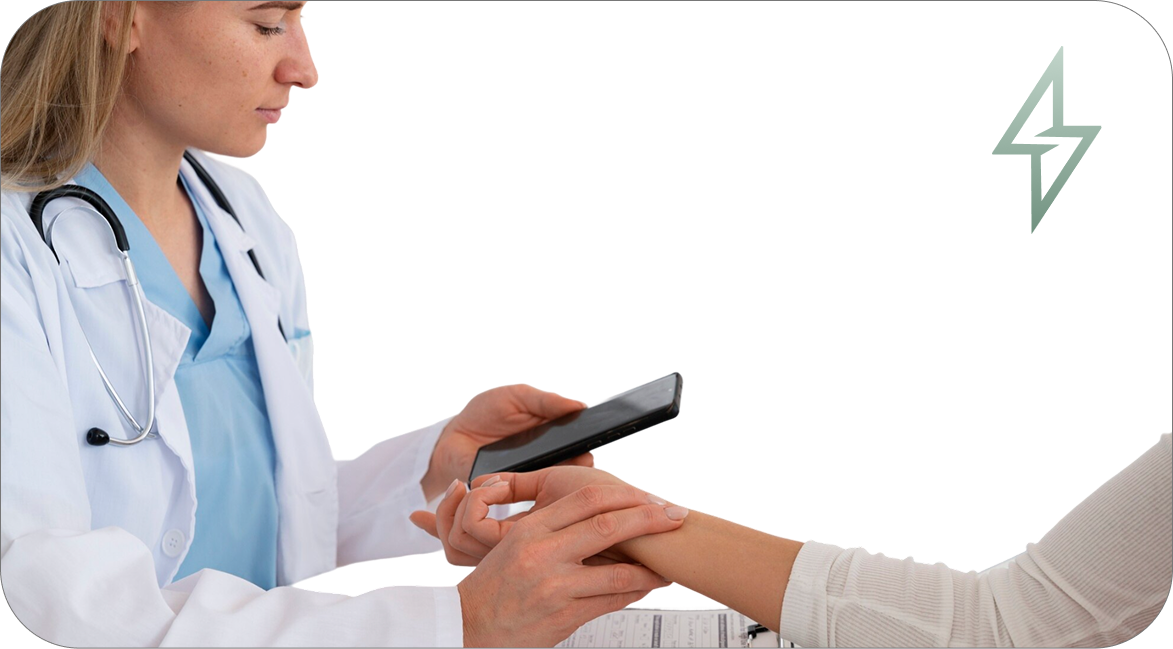
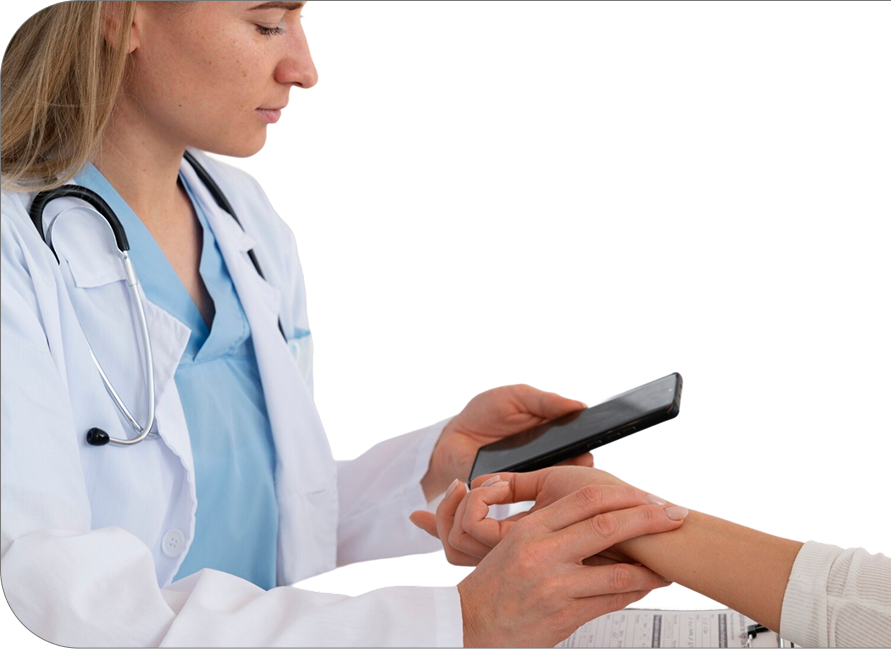
style: optimize onboarding screens layout, adjust spacing and position, remove lightning bolt and crop top image

diff --git a/src/pages/OnboardingFlow.jsx b/src/pages/OnboardingFlow.jsx
@@ -139,8 +139,7 @@ export default function OnboardingFlow() {
                 margin: '0 auto',
                 width: '100%'
             }}>
-                
-                {step === 1 && (
+                              {step === 1 && (
                     <div className="step-container fadeIn" style={{ 
                         flex: 1, 
                         display: 'flex', 
@@ -148,28 +147,28 @@ export default function OnboardingFlow() {
                         alignItems: 'center', 
                         textAlign: 'center',
                         justifyContent: 'space-between',
-                        height: '100%'
+                        minHeight: isMobile ? 'calc(100vh - 40px)' : '650px',
+                        paddingBottom: '24px'
                     }}>
-                        <div className="onboarding-logo-container" style={{ marginTop: '20px', marginBottom: '20px', width: '100%', display: 'flex', justifyContent: 'center' }}>
-                            <img src={logoSlMa} alt="SurgiLink" style={{ height: isMobile ? '70px' : '110px', objectFit: 'contain', transition: 'height 0.3s ease' }} />
+                        <div className="onboarding-logo-container" style={{ marginTop: '20px', marginBottom: '16px', width: '100%', display: 'flex', justifyContent: 'center' }}>
+                            <img src={logoSlMa} alt="SurgiLink" style={{ height: isMobile ? '65px' : '100px', objectFit: 'contain', transition: 'height 0.3s ease' }} />
                         </div>
                         <div className="onboarding-text-container" style={{ 
-                            marginBottom: 'auto', 
-                            marginTop: '10px',
+                            marginBottom: '16px', 
                             padding: '0 20px',
                             zIndex: 5
                         }}>
                             <h1 className="onboarding-title" style={{ 
-                                fontSize: '2.2rem', 
+                                fontSize: isMobile ? '1.8rem' : '2.2rem', 
                                 fontWeight: '700', 
-                                marginBottom: '12px', 
-                                lineHeight: '1.1',
+                                marginBottom: '10px', 
+                                lineHeight: '1.15',
                                 color: '#1f2937'
                             }}>
                                 Bienvenue <span style={{ fontWeight: '400' }}>dans SurgiLink !</span>
                             </h1>
                             <p className="onboarding-subtitle" style={{ 
-                                fontSize: '1.2rem', 
+                                fontSize: isMobile ? '1.05rem' : '1.2rem', 
                                 fontWeight: '500',
                                 color: '#6b7280'
                             }}>
@@ -178,39 +177,38 @@ export default function OnboardingFlow() {
                         </div>
 
                         <div className="onboarding-image-container" style={{ 
-                            position: 'relative', 
                             width: '100%', 
                             display: 'flex', 
-                            flexDirection: 'column', 
+                            justifyContent: 'center',
                             alignItems: 'center',
-                            justifyContent: 'flex-end',
-                            marginTop: 'auto',
-                            minHeight: '300px'
+                            flex: 1,
+                            margin: '10px 0'
                         }}>
                             <img 
                                 src={medecinImg} 
                                 alt="Médecin" 
                                 style={{ 
-                                    width: '100%', 
-                                    maxWidth: '420px',
+                                    width: '75%', 
+                                    maxWidth: '280px',
                                     height: 'auto', 
                                     display: 'block',
-                                    marginBottom: '-5px',
-                                    filter: 'drop-shadow(0 -10px 30px rgba(0,0,0,0.15))'
+                                    opacity: 0.85,
+                                    filter: 'drop-shadow(0 -5px 15px rgba(0,0,0,0.06))',
+                                    transition: 'all 0.3s ease'
                                 }} 
                             />
-                            
+                        </div>
+
+                        <div style={{ width: '100%', display: 'flex', justifyContent: 'center', padding: '16px 20px 0 20px', zIndex: 10 }}>
                             <button 
                                 onClick={() => setStep(2)}
                                 className="btn-primary"
                                 style={{ 
-                                    position: 'absolute',
-                                    bottom: '30%', 
-                                    width: '85%', 
+                                    width: '100%', 
                                     maxWidth: '280px',
-                                    padding: '1.2rem',
-                                    borderRadius: '50px',
-                                    fontSize: '1.2rem',
+                                    height: '52px', 
+                                    borderRadius: '30px',
+                                    fontSize: '1.1rem',
                                     fontWeight: '800',
                                     display: 'flex',
                                     alignItems: 'center',
@@ -219,135 +217,143 @@ export default function OnboardingFlow() {
                                     background: 'var(--color-purple-600)',
                                     border: 'none',
                                     color: 'white',
-                                    boxShadow: '0 15px 40px rgba(109, 140, 124, 0.4)',
-                                    zIndex: 20,
+                                    boxShadow: '0 10px 30px rgba(109, 140, 124, 0.3)',
                                     cursor: 'pointer',
                                     letterSpacing: '0.02em'
                                 }}
                             >
-                                CONTINUER <ArrowRight size={24} />
+                                CONTINUER <ArrowRight size={20} />
                             </button>
                         </div>
                     </div>
                 )}
 
                  {step === 2 && (
-                    <div className="step-container fadeIn" style={{ flex: 1, display: 'flex', flexDirection: 'column' }}>
-                        <div className="onboarding-header-card" style={{ 
-                            borderRadius: '30px', 
-                            overflow: 'hidden', 
-                            height: isMobile ? '130px' : '240px',
-                            boxShadow: '0 15px 30px rgba(0,0,0,0.15)',
-                            marginBottom: isMobile ? '12px' : 'var(--spacing-6)',
-                            transition: 'height 0.3s ease'
-                        }}>
-                            <img src={cardMedicalImg} alt="SurgiLink Medical" style={{ width: '100%', height: '100%', objectFit: 'cover' }} />
-                        </div>
-
-                        <div className="onboarding-info-container" style={{ color: '#4b5563', flex: 1 }}>
-                            <h2 style={{ 
-                                fontSize: isMobile ? '1.15rem' : '1.4rem', 
-                                fontWeight: '700', 
-                                marginBottom: isMobile ? '10px' : 'var(--spacing-4)', 
-                                display: 'flex', 
-                                alignItems: 'center', 
-                                gap: '8px', 
-                                color: '#1f2937',
-                                lineHeight: 1.25
+                    <div className="step-container fadeIn" style={{ 
+                        flex: 1, 
+                        display: 'flex', 
+                        flexDirection: 'column', 
+                        justifyContent: 'space-between',
+                        minHeight: isMobile ? 'calc(100vh - 40px)' : '650px',
+                        paddingBottom: '24px'
+                    }}>
+                        <div style={{ flex: 1, display: 'flex', flexDirection: 'column', gap: isMobile ? '16px' : '24px', width: '100%' }}>
+                            <div className="onboarding-header-card" style={{ 
+                                borderRadius: '30px', 
+                                overflow: 'hidden', 
+                                height: isMobile ? '140px' : '200px',
+                                boxShadow: '0 15px 30px rgba(0,0,0,0.15)',
+                                width: '100%'
                             }}>
-                                Tout au long de votre opération, nous restons à vos côtés !
-                            </h2>
-
-                            <div className="info-badge" style={{ 
-                                background: '#f9fafb', 
-                                padding: isMobile ? '8px 16px' : '10px 20px', 
-                                borderRadius: '15px', 
-                                display: 'flex', 
-                                alignItems: 'center', 
-                                gap: '12px',
-                                marginBottom: isMobile ? '10px' : 'var(--spacing-4)',
-                                border: '1px solid #e5e7eb',
-                                boxShadow: '0 2px 4px rgba(0,0,0,0.02)'
-                            }}>
-                                <img src={smsImg} alt="SMS" style={{ height: isMobile ? '26px' : '32px' }} />
-                                <span style={{ fontWeight: '600', color: '#374151', fontSize: isMobile ? '14px' : '16px' }}>Suivi SMS : Questionnaires</span>
+                                <img src={cardMedicalImg} alt="SurgiLink Medical" style={{ width: '100%', height: '100%', objectFit: 'cover' }} />
                             </div>
 
-                            <p style={{ fontSize: isMobile ? '0.85rem' : '0.95rem', lineHeight: '1.5', opacity: 0.9, marginBottom: isMobile ? '8px' : 'var(--spacing-6)' }}>
-                                SurgiLink est un assistant de suivi chirurgical qui va vous accompagner avant et après votre intervention.
-                            </p>
+                            <div className="onboarding-info-container" style={{ color: '#4b5563', display: 'flex', flexDirection: 'column', gap: isMobile ? '12px' : '16px' }}>
+                                <h2 style={{ 
+                                    fontSize: isMobile ? '1.25rem' : '1.4rem', 
+                                    fontWeight: '700', 
+                                    color: '#1f2937',
+                                    lineHeight: 1.25,
+                                    margin: 0
+                                }}>
+                                    Tout au long de votre opération, nous restons à vos côtés !
+                                </h2>
 
-                            <p style={{ fontSize: isMobile ? '0.85rem' : '0.95rem', lineHeight: '1.5', opacity: 0.9, marginBottom: isMobile ? '8px' : 'var(--spacing-6)' }}>
-                                💬 Vous recevrez des SMS à chaque étape clé <strong>(J-7, J-2, etc.)</strong>, afin de vous accompagner sereinement.
-                            </p>
+                                <div className="info-badge" style={{ 
+                                    background: '#f9fafb', 
+                                    padding: '8px 16px', 
+                                    borderRadius: '15px', 
+                                    display: 'flex', 
+                                    alignItems: 'center', 
+                                    gap: '12px',
+                                    border: '1px solid #e5e7eb',
+                                    boxShadow: '0 2px 4px rgba(0,0,0,0.02)',
+                                    alignSelf: 'flex-start'
+                                }}>
+                                    <img src={smsImg} alt="SMS" style={{ height: '26px' }} />
+                                    <span style={{ fontWeight: '600', color: '#374151', fontSize: '14px' }}>Suivi SMS : Questionnaires</span>
+                                </div>
 
-                            <p style={{ fontSize: isMobile ? '0.85rem' : '0.95rem', lineHeight: '1.5', opacity: 0.9, marginBottom: isMobile ? '8px' : 'var(--spacing-6)' }}>
-                                ⚠ Il est essentiel de bien les consulter et de <strong>répondre au questionnaire via le lien qui vous sera envoyé dans le message</strong> : Cela ne vous prendra que quelques petites secondes !
-                            </p>
+                                <div style={{ display: 'flex', flexDirection: 'column', gap: '10px' }}>
+                                    <p style={{ fontSize: '0.9rem', lineHeight: '1.5', opacity: 0.9, margin: 0 }}>
+                                        SurgiLink est un assistant de suivi chirurgical qui va vous accompagner avant et après votre intervention.
+                                    </p>
 
-                            <p style={{ fontSize: isMobile ? '0.85rem' : '0.95rem', lineHeight: '1.5', opacity: 0.9, marginBottom: isMobile ? '12px' : 'var(--spacing-8)' }}>
-                                Avec nous, vous êtes accompagné(e) <strong>avec clarté et sérénité tout au long de votre parcours de soins !</strong>
-                            </p>
+                                    <p style={{ fontSize: '0.9rem', lineHeight: '1.5', opacity: 0.9, margin: 0 }}>
+                                        💬 Vous recevrez des SMS à chaque étape clé <strong>(J-7, J-2, etc.)</strong>, afin de vous accompagner sereinement.
+                                    </p>
 
-                            <div className="timeline-container" style={{ position: 'relative', marginBottom: isMobile ? '16px' : 'var(--spacing-10)' }}>
-                                <div className="timeline-line" style={{ 
-                                    position: 'absolute', 
-                                    top: isMobile ? '18px' : '30px', 
-                                    left: '0', 
-                                    right: '0', 
-                                    height: '2px', 
-                                    background: '#e5e7eb',
-                                    zIndex: 0
-                                }} />
-                                <div className="timeline-items" style={{ display: 'flex', justifyContent: 'space-between', position: 'relative', zIndex: 1, padding: '0 5px' }}>
-                                    {['J-7', 'J-2', 'J-1', 'J-J', 'J+1', 'J+2', 'J+7'].map((day) => (
-                                        <div key={day} style={{ display: 'flex', flexDirection: 'column', alignItems: 'center', gap: isMobile ? '4px' : '8px' }}>
-                                            <div style={{ 
-                                                width: isMobile ? '14px' : '24px', 
-                                                height: isMobile ? '14px' : '24px', 
-                                                borderRadius: '50%', 
-                                                background: '#ffffff',
-                                                border: '2px solid #e5e7eb'
-                                            }} />
-                                            <span style={{ fontSize: isMobile ? '0.65rem' : '0.75rem', fontWeight: '600', color: '#6b7280' }}>{day}</span>
-                                        </div>
-                                    ))}
+                                    <p style={{ fontSize: '0.9rem', lineHeight: '1.5', opacity: 0.9, margin: 0 }}>
+                                        ⚠ Il est essentiel de bien les consulter et de <strong>répondre au questionnaire via le lien qui vous sera envoyé dans le message</strong> : Cela ne vous prendra que quelques petites secondes !
+                                    </p>
+
+                                    <p style={{ fontSize: '0.9rem', lineHeight: '1.5', opacity: 0.9, margin: 0 }}>
+                                        Avec nous, vous êtes accompagné(e) <strong>avec clarté et sérénité tout au long de votre parcours de soins !</strong>
+                                    </p>
+                                </div>
+
+                                <div className="timeline-container" style={{ position: 'relative', marginTop: '8px' }}>
+                                    <div className="timeline-line" style={{ 
+                                        position: 'absolute', 
+                                        top: isMobile ? '16px' : '22px', 
+                                        left: '0', 
+                                        right: '0', 
+                                        height: '2px', 
+                                        background: '#e5e7eb',
+                                        zIndex: 0
+                                    }} />
+                                    <div className="timeline-items" style={{ display: 'flex', justifyContent: 'space-between', position: 'relative', zIndex: 1, padding: '0 5px' }}>
+                                        {['J-7', 'J-2', 'J-1', 'J-J', 'J+1', 'J+2', 'J+7'].map((day) => (
+                                            <div key={day} style={{ display: 'flex', flexDirection: 'column', alignItems: 'center', gap: '4px' }}>
+                                                <div style={{ 
+                                                    width: isMobile ? '12px' : '18px', 
+                                                    height: isMobile ? '12px' : '18px', 
+                                                    borderRadius: '50%', 
+                                                    background: '#ffffff',
+                                                    border: '2px solid #e5e7eb'
+                                                }} />
+                                                <span style={{ fontSize: isMobile ? '0.65rem' : '0.75rem', fontWeight: '600', color: '#6b7280' }}>{day}</span>
+                                            </div>
+                                        ))}
+                                    </div>
                                 </div>
                             </div>
-
-                            <div className="onboarding-bottom-row" style={{ 
-                                display: 'flex', 
-                                alignItems: 'center', 
-                                justifyContent: 'center',
-                                marginTop: isMobile ? '8px' : '20px'
-                            }}>
-                                <button 
-                                    onClick={handleComplete}
-                                    style={{ 
-                                        width: '100%',
-                                        maxWidth: '280px',
-                                        height: isMobile ? '50px' : '60px', 
-                                        borderRadius: '30px', 
-                                        background: 'var(--color-purple-600)',
-                                        border: 'none',
-                                        color: 'white',
-                                        display: 'flex',
-                                        alignItems: 'center',
-                                        justifyContent: 'center',
-                                        gap: '12px',
-                                        boxShadow: '0 10px 30px rgba(109, 140, 124, 0.4)',
-                                        cursor: 'pointer',
-                                        padding: '0 25px'
-                                    }}
-                                >
-                                    <span style={{ fontWeight: '800', fontSize: isMobile ? '1rem' : '1.1rem', letterSpacing: '0.02em' }}>CONTINUER</span>
-                                    <ArrowRight size={isMobile ? 20 : 24} />
-                                </button>
-                            </div>
                         </div>
+
+                        <div className="onboarding-bottom-row" style={{ 
+                            display: 'flex', 
+                            alignItems: 'center', 
+                            justifyContent: 'center',
+                            width: '100%',
+                            padding: '16px 20px 0 20px',
+                            zIndex: 10
+                        }}>
+                            <button 
+                                onClick={handleComplete}
+                                style={{ 
+                                    width: '100%',
+                                    maxWidth: '280px',
+                                    height: '52px', 
+                                    borderRadius: '30px', 
+                                    background: 'var(--color-purple-600)',
+                                    border: 'none',
+                                    color: 'white',
+                                    display: 'flex',
+                                    alignItems: 'center',
+                                    justifyContent: 'center',
+                                    gap: '12px',
+                                    boxShadow: '0 10px 30px rgba(109, 140, 124, 0.4)',
+                                    cursor: 'pointer',
+                                    padding: '0 25px'
+                                }}
+                            >
+                                <span style={{ fontWeight: '800', fontSize: '1.1rem', letterSpacing: '0.02em' }}>CONTINUER</span>
+                                <ArrowRight size={20} />
+                            </button>
                     </div>
-                )}
-            </div>
+                </div>
+            )}
+        </div>
 
             <style dangerouslySetInnerHTML={{ __html: `
                 .onboarding-title, .onboarding-info-container h2, .onboarding-subtitle, .onboarding-info-container p, .onboarding-info-container span { 
